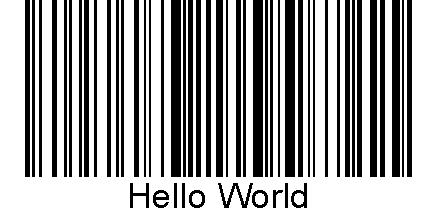
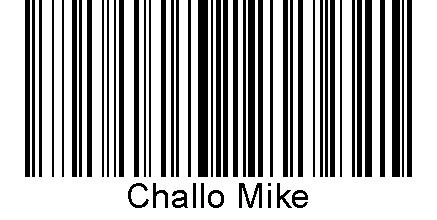
e

Changed region(s): [[0.2677, 0.0, 0.8032, 0.9545], [0.119, 0.0, 0.2975, 0.8182], [0.833, 0.0, 0.8627, 0.8182]]

diff --git a/SYO/src/SYO/SYO.java b/SYO/src/SYO/SYO.java
@@ -30,7 +30,7 @@ public class SYO {
     BitmapCanvasProvider canvas = new BitmapCanvasProvider(
         fout, "image/jpeg", resolution, BufferedImage.TYPE_BYTE_BINARY, false, 0);
 
-    gen.generateBarcode(canvas, "Hello World it's me");
+    gen.generateBarcode(canvas, "Challo Mike");
     canvas.finish();
     
   }
